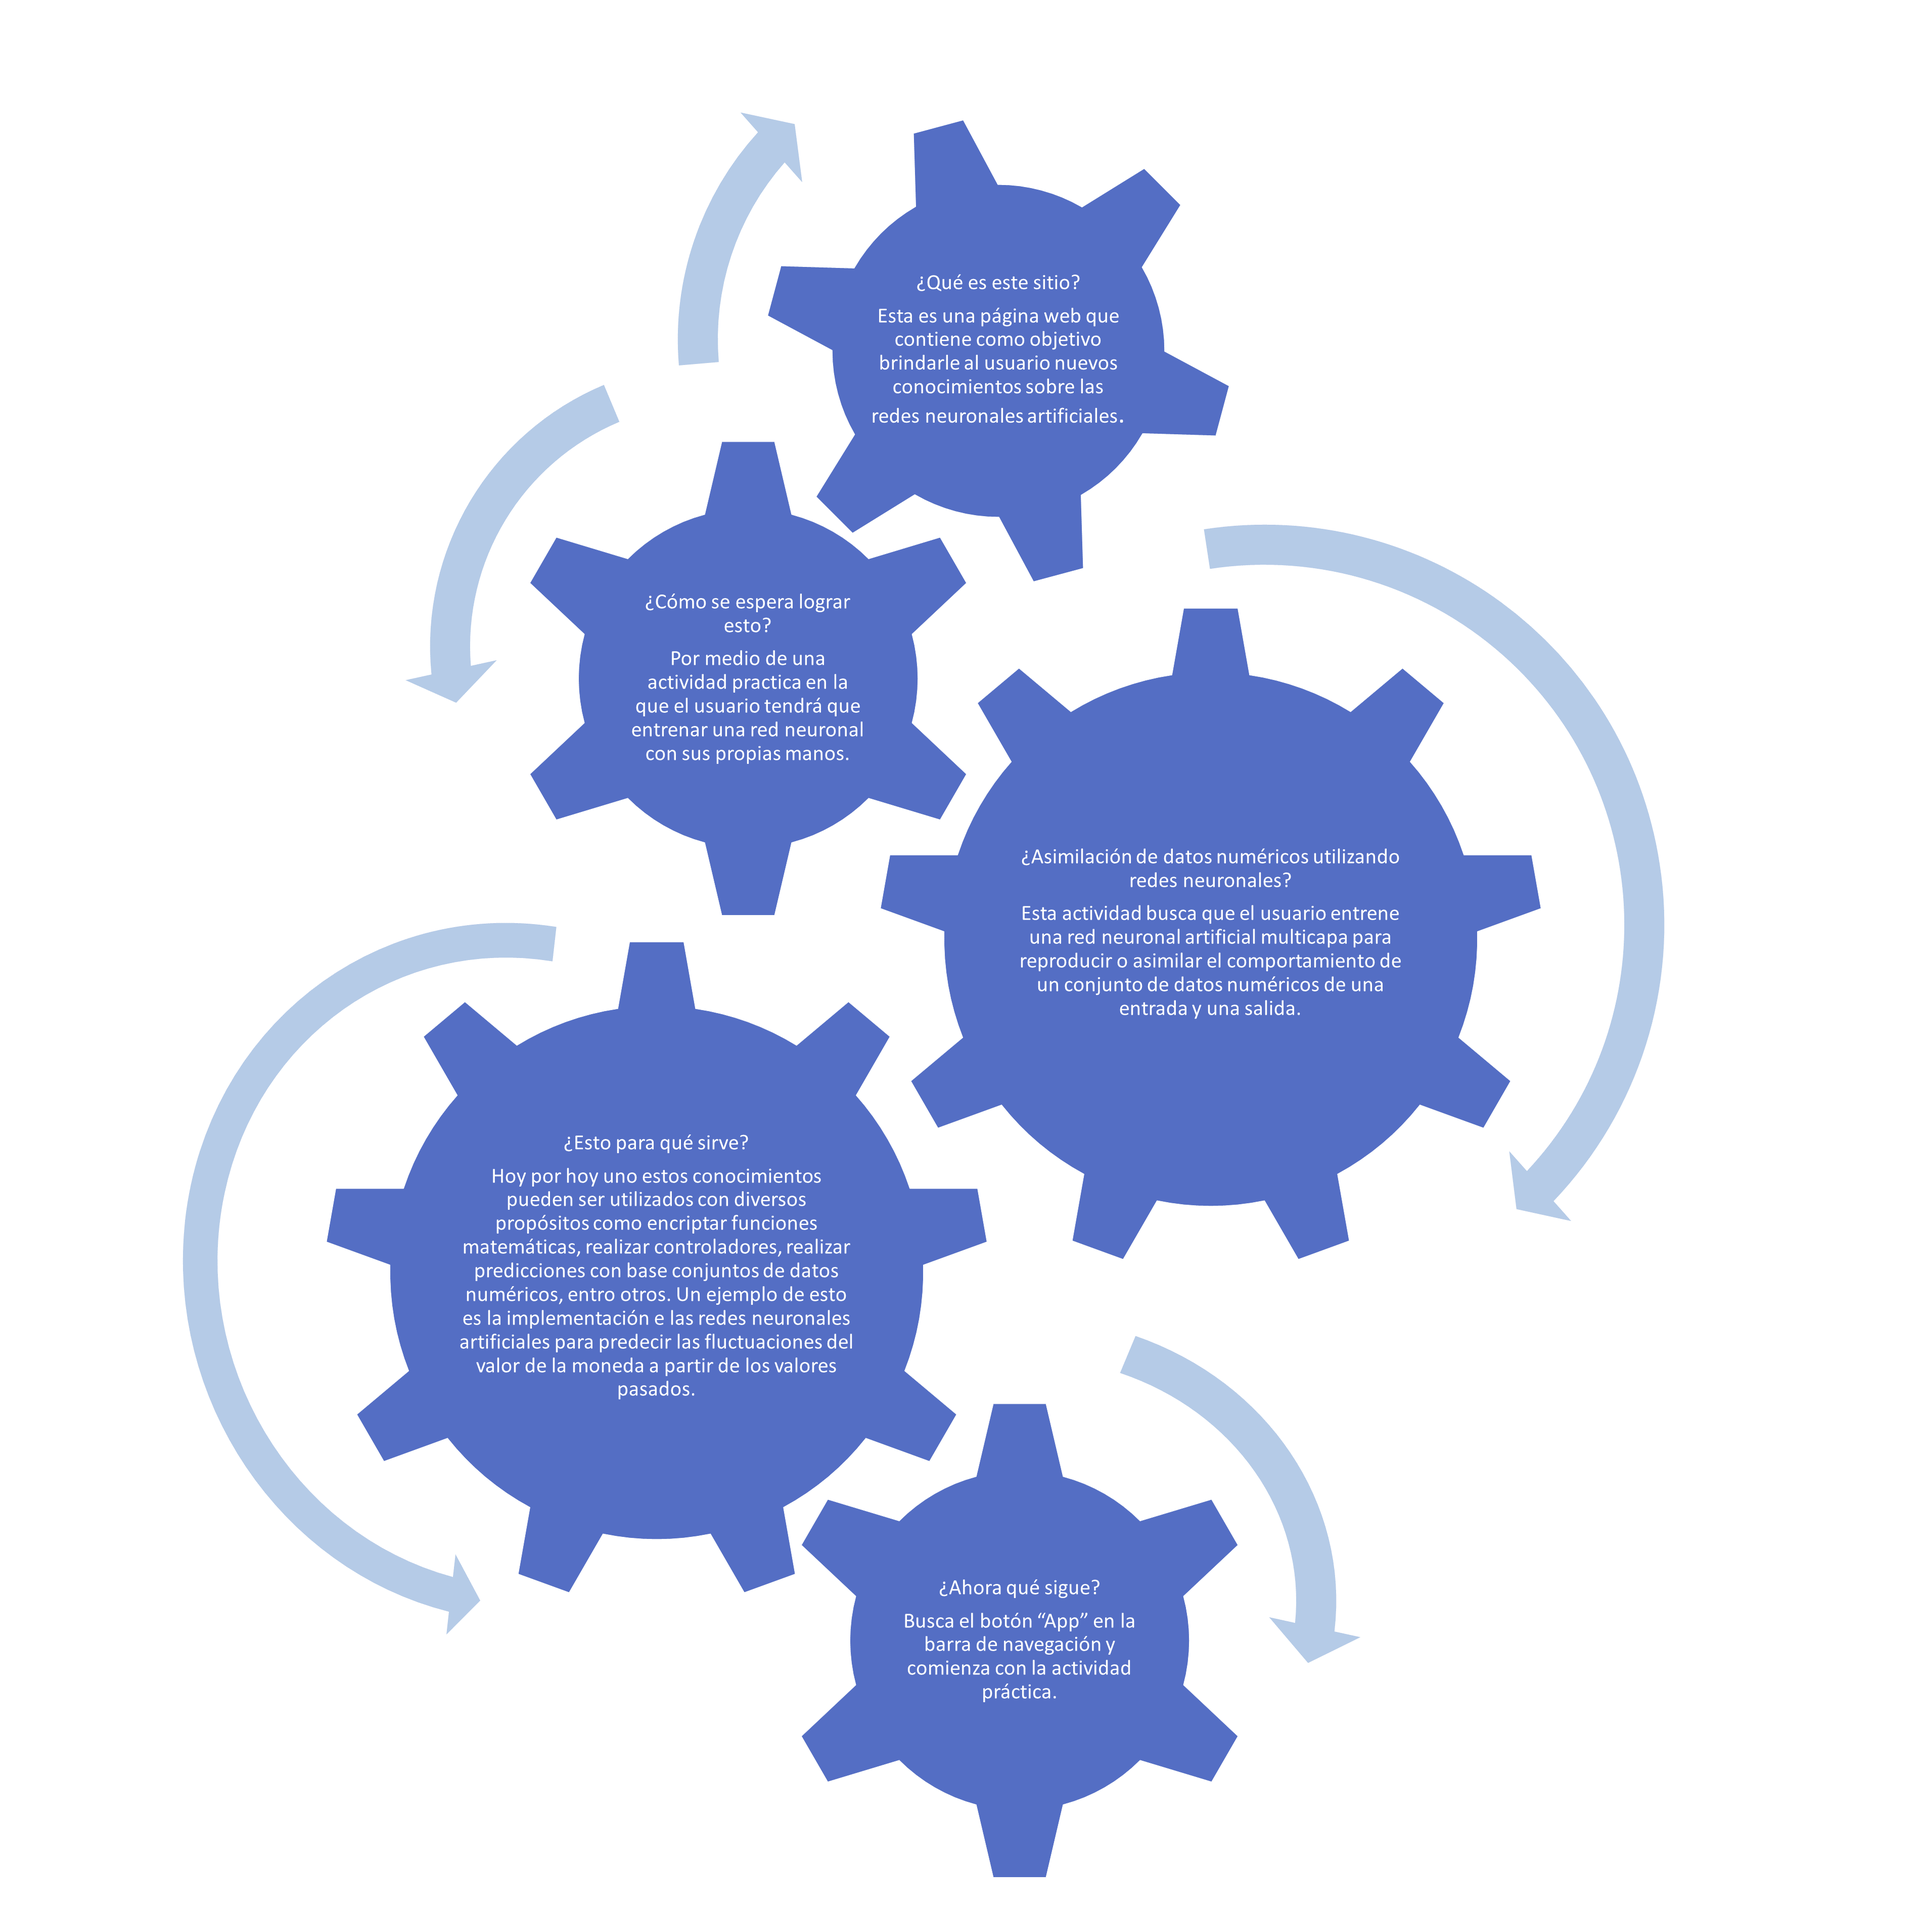
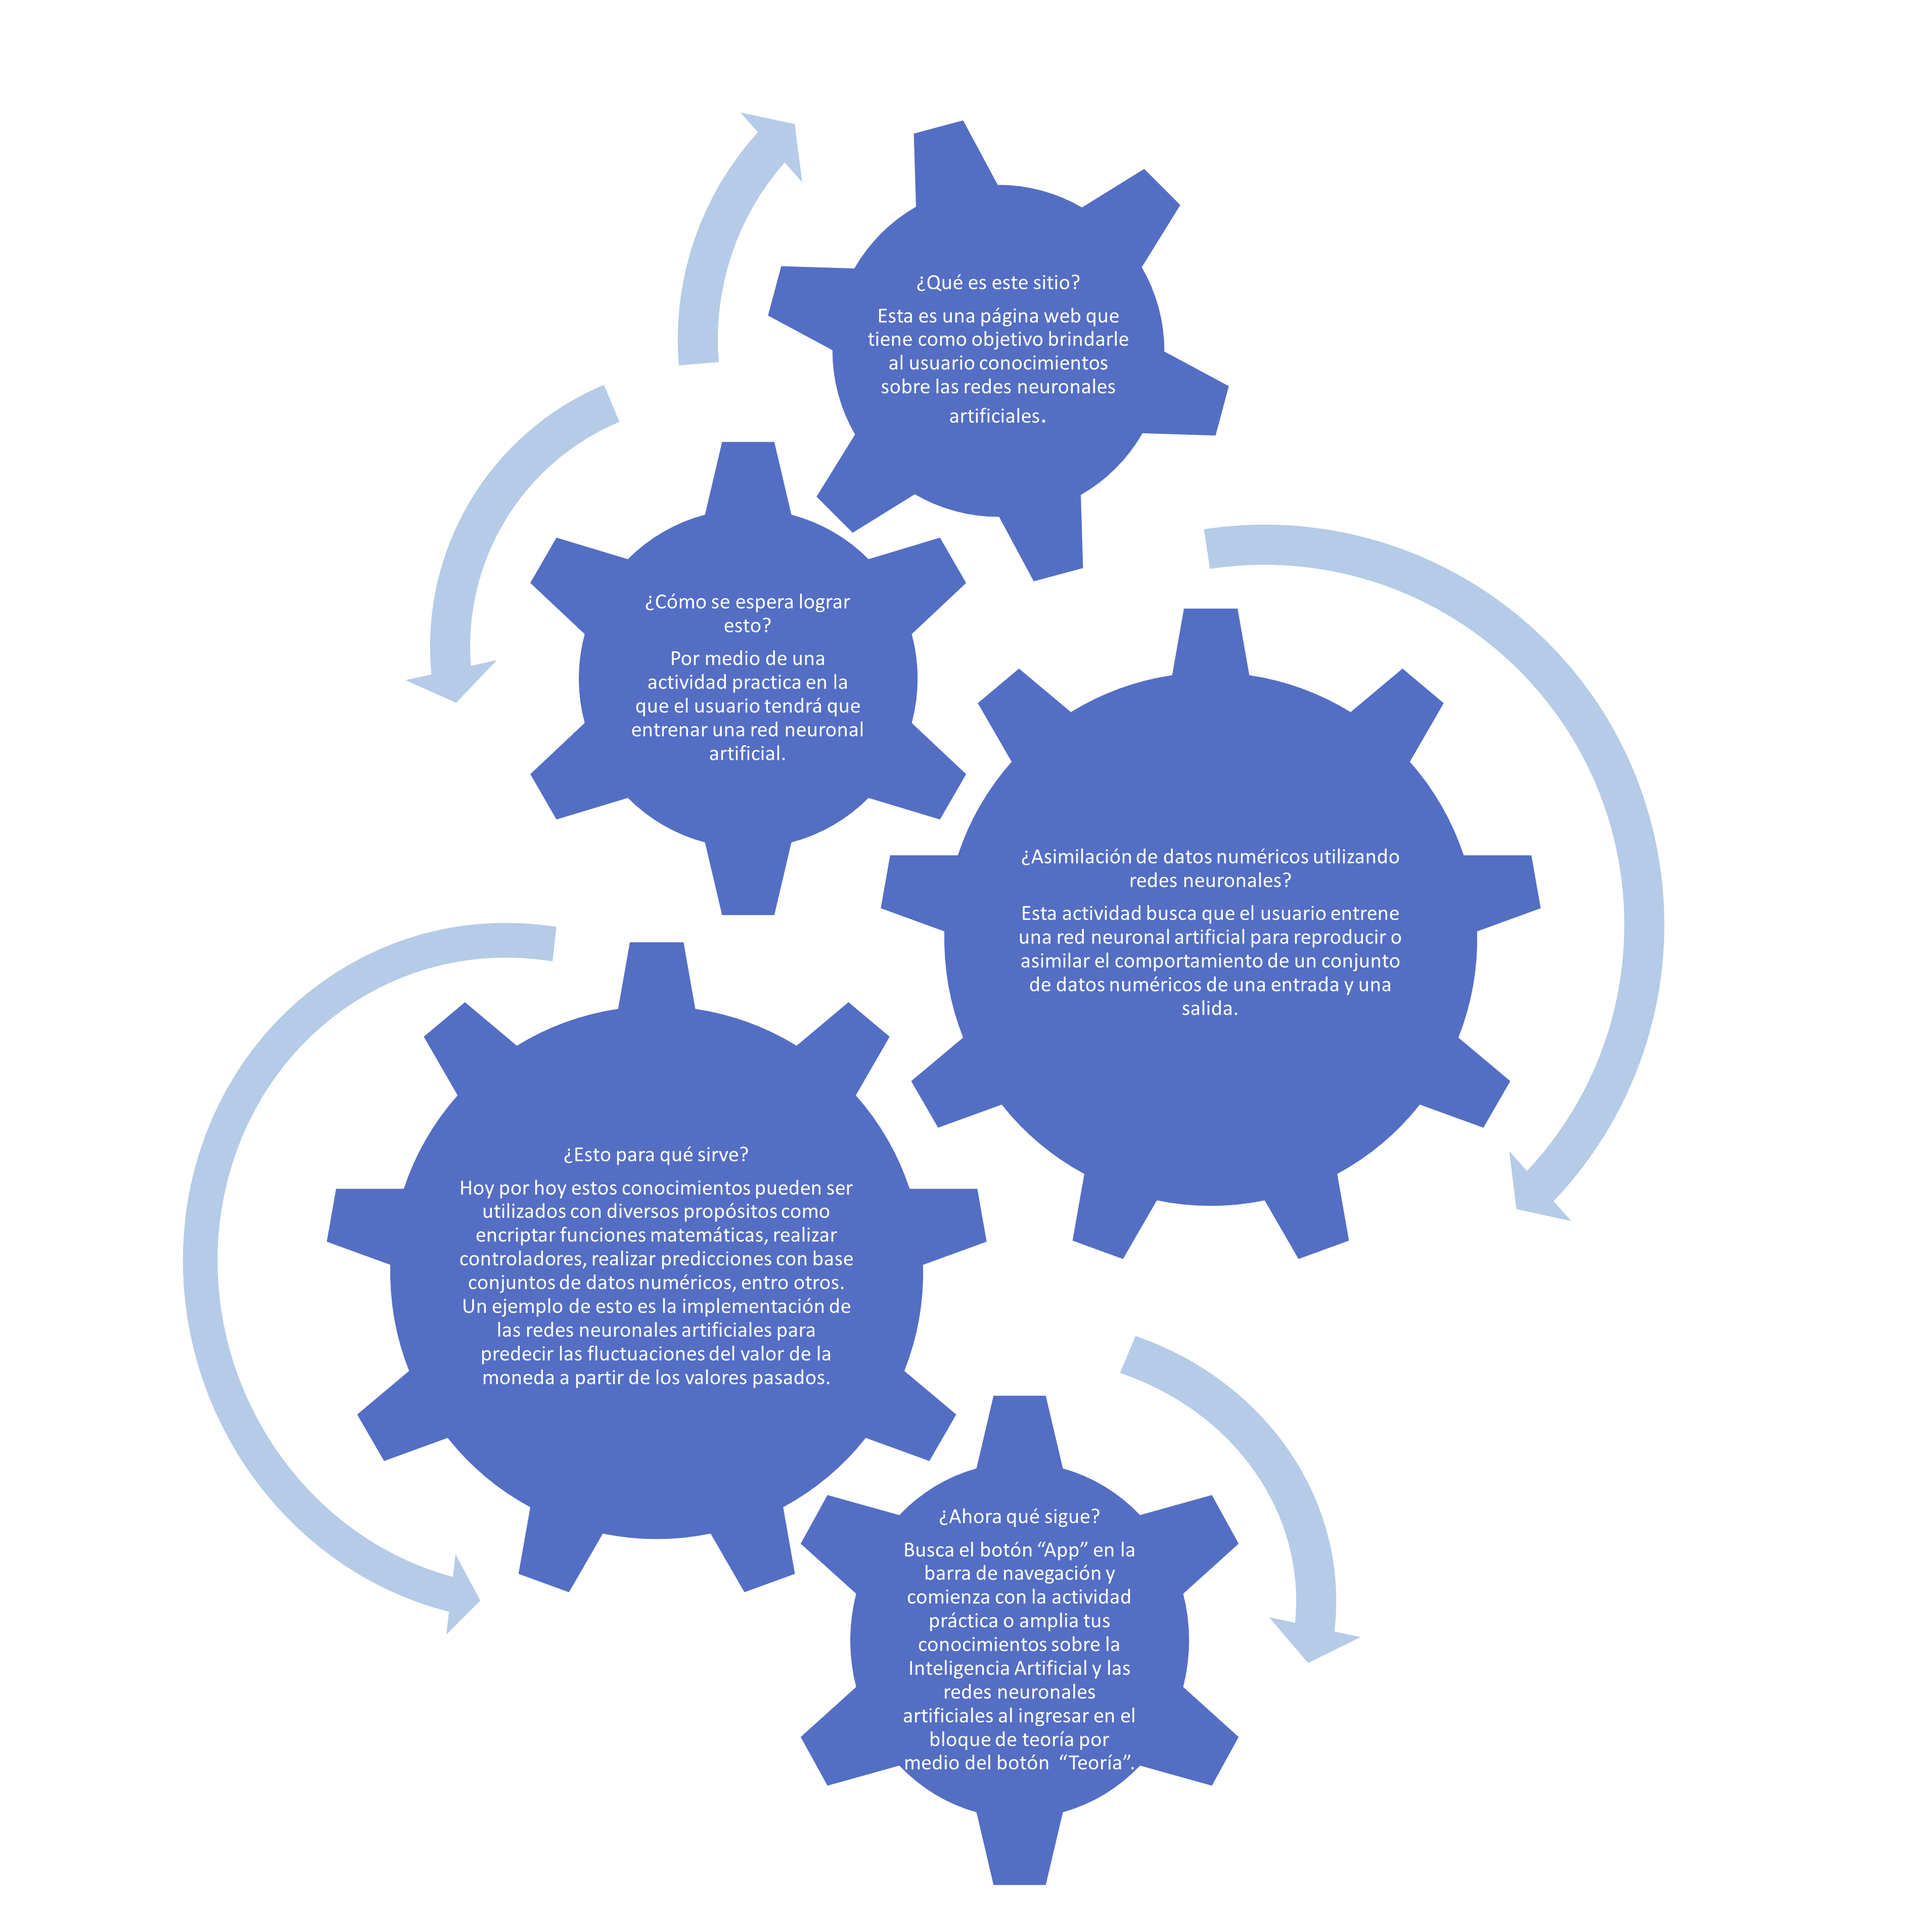
Add files via upload

diff --git a/index.html b/index.html
@@ -227,6 +227,8 @@
                     con los datos de entrenamiento.
                     <br>
                     <br>Oprime el botón “Parametros” para regresar a la para definir los parámetros de entrenamiento.
+                    <br>
+                    <br>Oprime el botón “Detener” para interrumpir el entrenamiento.
                 </p>
             </div>
             <div class="pa">
@@ -240,7 +242,7 @@
                 </div>
                 <div class="pb">
                     <a id="parametros_btton" class="btn btn-primary" href="#app2">Parametros</a>
-                    <a id="break_btton" class="btn btn-primary" href="#app2">Break</a>
+                    <a id="break_btton" class="btn btn-primary" href="#app2">Detener</a>
                 </div>
             </div>
         </section>
@@ -249,12 +251,17 @@
         <div class="indexx">
             <div class="d22">
                 <h4>Index</h4>
-                <p><a href="#t1">Que es una red neuronal artificial?</a></p>
-                <p><a href="#t3">Que es una “capa” en este contexto? </a></p>
-                <p><a href="#t2">Que es una neurona artificial? </a></p>
-                <p><a href="#t4">Como funciona una neurona artificial? </a></p>
-                <p><a href="#t5">Como se entrena una red neuronal? </a></p>
-                
+                <p><a href="#t-3">La Inteligencia Artificial: </a></p>
+                <p><a href="#t-2">¿Para qué hacer esto?</a></p>
+                <p><a href="#t-1">¿Esto cómo puede ayudar a la humanidad?</a></p>
+                <p><a href="#t0">¿Cómo dotar de “inteligencia” una maquina? </a></p>
+                <p><a href="#t1">¿Que es una red neuronal artificial?</a></p>
+                <p><a href="#t3">¿Que es una “capa” en este contexto? </a></p>
+                <p><a href="#t2">¿Que es una neurona artificial? </a></p>
+                <p><a href="#t4">¿Como funciona una neurona artificial? </a></p>
+                <p><a href="#t5">¿Como se entrena una red neuronal? </a></p>
+                <p><a href="#t6">¿Cómo utilizo las redes neuronales para asimilar secuencias numéricas?</a></p>
+
                 <p><a href="#tp">Deseas conocer mas? </a></p>
             </div>
         </div>
@@ -263,15 +270,39 @@
                 <h3 class="teoria_intro">Aumenta tu conocimiento sobre las redes neuronales artificiales</h3>
             </div>
             <div class="d2">
-
+                <h4 id="t-3" class="texto_info">La Inteligencia Artificial:</h4>
+                <p>La inteligencia artificial o IA por sus siglas en español es considerada un campo de estudio que
+                    busca dotar a las máquinas de “inteligencia”. Esta “inteligencia” hace referencia a la capacidad de
+                    la máquina para solucionar problemas o desempeñar actividades después pue un apropiado
+                    entrenamiento.</p>
+                <h4 id="t-2" class="texto_info">¿Para qué hacer esto?</h4>
+                <p>Con esto se busca brindarle a la maquina aquellas características que le permiten a los seres
+                    bilógicos tomar acciones lógicas de manera lógica e intuitiva y adaptables a su entorno. </p>
+                <h4 id="t-1" class="texto_info">¿Esto cómo puede ayudar a la humanidad?</h4>
+                <p>Dejando de lado las ideas salidas de los libros de ficción que proponen maquinas capaces de
+                    replicar completamente las capacidades de los seres biológicos, Los beneficios de poseer maquinas
+                    más intuitivas y adaptables son un campo actual de innovación y progreso. Refiriéndonos a “la
+                    maquina” no solo como un objeto físico sino también como un programa informático algunos ejemplos de
+                    las posibles aplicaciones de la IA en la vida cotidiana de una persona son los asistentes
+                    electrónicos implementados en los dispositivos inteligentes, los sistemas de predicción de
+                    fluctuaciones monetarias o predicción meteorológicas, vehículos capaces de conducirse de manera
+                    autónoma y sistemas de encriptación de la información. </p>
+                <h4 id="t0" class="texto_info">¿Cómo dotar de “inteligencia” una maquina?</h4>
+                <p>para intentar darle una respuesta apropiada a esta pregunta propone analizar la siguiente incógnita
+                    ¿De dónde proviene la “inteligencia” de un ser biológico? La respuesta a esta pregunta es el
+                    cerebro. Y si, la “inteligencia” proviene del cerebro en los seres biológicos ¿cómo funciona el
+                    cerebro de un ser biológico? Gracias a la red neuronal del que está compuesto el cerebro este le
+                    permite a los seres biológicos procesar la información de su entorno y tomar acciones acorde a dicha
+                    información. Del mismo modo se busca dotar a la máquina de “inteligencia” diseñando una red neuronal
+                    artificial que le permita a la maquina procesar la información de su “entorno”.</p>
                 <h4 id="t1" class="texto_info">Que es una red neuronal artificial?</h4>
                 <p>Una red neuronal artificial es un conjunto ordenado de capas conformadas por neuronas artificiales
                     conectadas entre si(capa de entrada, capas ocultas y capa de salida).</p>
-                    <img src="imagenes/Red neuronal.PNG" alt="">
+                <img src="imagenes/Red neuronal.PNG" alt="">
                 <h4 id="t3" class="texto_info">Que es una “capa” en este contexto? </h4>
                 <p>Una capa neuronal es un nivel de procesamiento conformado por un conjunto de neuronas ordenadas las
                     cuales comparten un mismo grupo de entradas. Estas capas neuronales generalmente se representan por
-                    un conjunto de unidades(neuronas) ordenadas en forma de vector o plano. </p>
+                    un conjunto de unidades(neuronas) ordenadas en forma de vector o plano.</p>
                 <h4 id="t2" class="texto_info">Que es una neurona artificial?</h4>
                 <p>Una neurona artificial es el nombre dado a cierto grupo de funciones matemáticas con una estructura
                     diseñada para emular el comportamiento de una neurona biológica.
@@ -279,11 +310,8 @@
                 <img src="imagenes/Neurona.PNG" width="750" height="390" alt="">
                 <h4 id="t4" class="texto_info">Como funciona una neurona artificial? </h4>
                 <p>La neurona artificial realiza el trabajo de procesar pequeñas cantidades de información numérica
-                    gracias a sus facultades matemáticas. Este funcionamiento es tan sencillo como validar una ecuación
-                    en un valor deseado. Se realiza la sumatoria de los valores de entrada multiplicados por los pesos
-                    sinápticos que les corresponde, al valor obtenido se le resta el valor del Umbral o Potencial
-                    de activación, por último, se evalúa el resultado obtenido en la función de activación propia de la neurona, dando como
-                    resultado final la respuesta de la neurona ante los valores de entrada propuestos. </p>
+                    gracias a sus facultades matemáticas. En el proceso de entrenamiento de una neurona esta modifica
+                    sus valores matemáticos acorde a lo que ve a su entrada y lo que se espera a su salida.</p>
                 <img src="imagenes/ECNeuronal.PNG" alt="">
                 <h4 id="t5" class="texto_info">Como se entrena una red neuronal artificial? </h4>
                 <p>Hay varios métodos para el entrenamiento de una red neuronal artificial, el método utilizado en esta
@@ -291,6 +319,14 @@
                     entrenamiento conformados por datos de entrada y datos de salida a partir de los cuales la red
                     neuronal modificara sus valores matemáticos internos poco a poco hasta lograr un resultado similar
                     al de los datos con los que fue entrenada. </p>
+                <h4 id="t6" class="texto_info">¿Cómo utilizo las redes neuronales para asimilar secuencias numéricas?</h4>
+                <p>Una señal o secuencia numérica está conformado por parejas de números que indican una coordenada en
+                    un plano, en estas parejas el valor de uno de estos números (variable dependiente) depende del otro
+                    (variable independiente), con esto en mente se entrena la red neuronal utilizando como entrada a
+                    esta el valor de la variable independiente y como valor de salida el valor que le corresponde a la
+                    variable dependiente, de este modo la red neuronal modificara sus valores matemáticos para imitar el
+                    comportamiento de los valores con los que fue entrenada y podrá predecir el comportamiento en
+                    valores distintos a los utilizados para el entrenamiento. </p>
                 <br>
                 <br>
                 <br>
@@ -314,14 +350,19 @@
                 <h4 id="t1">Profundiza mas estos conocimientos: </h4>
                 <h4>Bibliografia</h4>
                 <p>Algunos loibros sobre inteligencia artificial y redes neuronales artificiales:</p>
-                <p>Una aproximación practica a las redes neuronales artificiales. Por: CAICEDO, Eduardo Francisco. LÓPEZ, Jesús Alfonso. </p>
+                <p>Una aproximación practica a las redes neuronales artificiales. Por: CAICEDO, Eduardo Francisco.
+                    LÓPEZ, Jesús Alfonso. </p>
                 <p>Pro Deep Learning with Tensorflow. Por: PATTANAYAK. Santanu. </p>
                 <p>DEEP LEARNING with Python. Por: CHOLLET. Francois. </p>
                 <h4>Paginas web</h4>
                 <p>Mas actividades relacionadas con la inteligencia artificial:</p>
-                <p>Machine learning for kids : <a href="https://machinelearningforkids.co.uk/" target="_blank">https://machinelearningforkids.co.uk/</a></p>
-                <p>Playground Tensorflow : <a href="https://playground.tensorflow.org" target="_blank">https://playground.tensorflow.org</a></p>
-                <p>Tensorflow for poets : <a href="https://codelabs.developers.google.com/codelabs/tensorflow-for-poets/#0" target="_blank">https://codelabs.developers.google.com/codelabs/tensorflow-for-poets/#0</a></p>
+                <p>Machine learning for kids : <a href="https://machinelearningforkids.co.uk/"
+                        target="_blank">https://machinelearningforkids.co.uk/</a></p>
+                <p>Playground Tensorflow : <a href="https://playground.tensorflow.org"
+                        target="_blank">https://playground.tensorflow.org</a></p>
+                <p>Tensorflow for poets : <a
+                        href="https://codelabs.developers.google.com/codelabs/tensorflow-for-poets/#0"
+                        target="_blank">https://codelabs.developers.google.com/codelabs/tensorflow-for-poets/#0</a></p>
                 <p>Cognimates : <a href="http://cognimates.me/home/" target="_blank">http://cognimates.me/home/</a></p>
             </div>
 
@@ -335,7 +376,7 @@
             <p>JavaScript <img src="imagenes/js-logo.png" width="40px" height="40px" alt=""></p>
             <h4>Herramientas adicionales: </h4>
             <p>TensorFlow.JS</p>
-       
+
             <p>JQuery</p>
             <p>Bootstrap</p>
         </div>

diff --git a/css/estl1.css b/css/estl1.css
@@ -196,7 +196,10 @@ section::before{
     justify-content: center;
 }
 .d22{
+    padding-top: 50px;
     width: 200px;
+    overflow-y: auto;
+    overflow-x: hidden;
 }
 .appa{
     padding-top: 60px;
